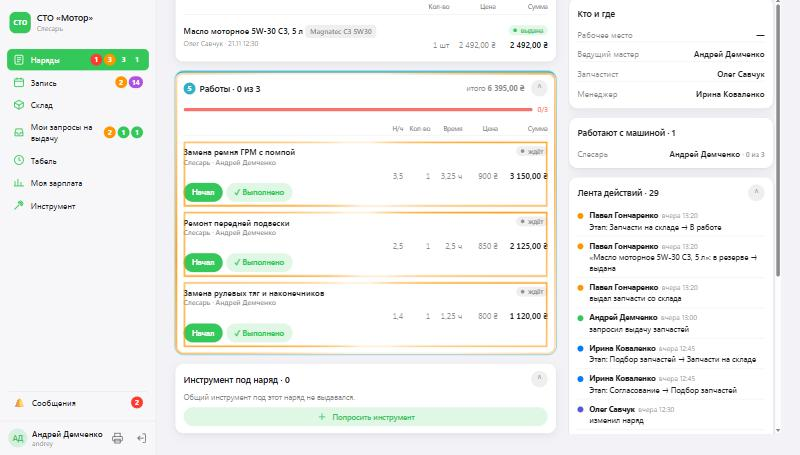
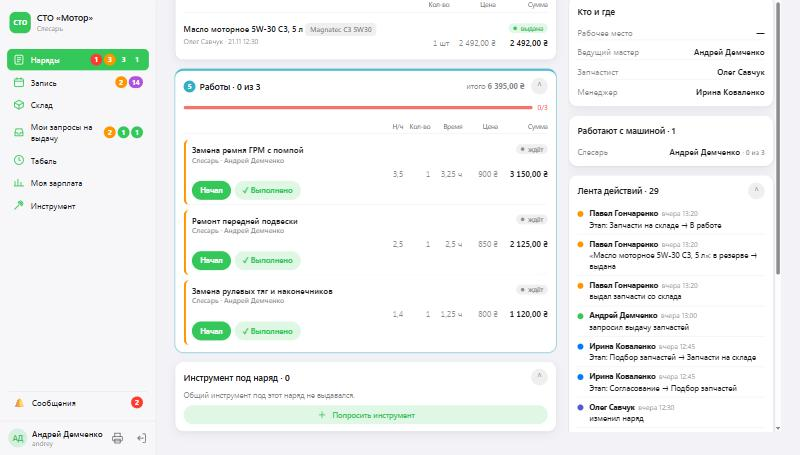
Кружки — одинаково везде: обводятся только окошки и строки (не разделы вокруг), плитка — только если больше нечего; у окошек с полоской слева и строк мигает край (мойка, срочная и пришедшая деталь, работы, склад); срочная деталь — скруглённая полоска как на мойке; «Назад» не обводится; проверка круж

diff --git a/app/static/js/app.js b/app/static/js/app.js
@@ -374,12 +374,13 @@
   const key = u => { const x = new URL(u, location.origin); return x.pathname + x.search; };
   function apply(map) {
     const want = new Map();   // элемент → цвет (самый срочный)
-    const put = (el, c) => { if (!el || el.closest('.sidebar, .tabbar, .more-menu, .toasts')) return;
+    const put = (el, c) => { if (!el || el.closest('.sidebar, .tabbar, .more-menu, .toasts, #nav-back, a.back')) return;
       const was = want.get(el); if (!was || ORDER.indexOf(c) < ORDER.indexOf(was)) want.set(el, c); };
     const main = document.querySelector('main') || document.body;
     const here = location.pathname, hereFull = here + location.search;
     Object.entries(map || {}).forEach(([menu, list]) => (list || []).forEach(x => {
       if (x.info) return;   // «для сведения» — без рамки
+      const local = [], add = el => { if (el) local.push(el); };
       const links = [x.href, ...(x.also || [])].filter(Boolean);
       links.forEach(h => {
         const u = new URL(h, location.origin);
@@ -388,31 +389,42 @@
           const href = a.getAttribute('href'); if (!href || href.startsWith('#')) return;
           const t = new URL(a.href); if (t.pathname !== u.pathname || a.closest('.wo-steps')) return;
           const tile = a.closest('.ptile, .tile'); if (!tile) return;   // только плитки (не кнопки периода и т. п.)
-          if ([...u.searchParams].every(([k, v]) => t.searchParams.get(k) === v)) put(tile, x.c);
+          if ([...u.searchParams].every(([k, v]) => t.searchParams.get(k) === v)) add(tile);
         });
-        if (u.pathname === here && u.hash) put(document.getElementById(u.hash.slice(1)), x.c);
-        // открыта как раз эта вкладка — обводим её плитку (у выбранной плитки ссылка «снять отбор», по адресу не найти)
-        const cur = new URLSearchParams(location.search);
-        if (u.pathname === here && [...u.searchParams].every(([k, v]) => cur.get(k) === v))
-          main.querySelectorAll('.ptile.on, .tile.on').forEach(el => put(el, x.c));
-        if (u.pathname === here) main.querySelectorAll('.rim.rim-' + x.c).forEach(el => put(el, x.c));
+        if (u.pathname === here && u.hash) add(document.getElementById(u.hash.slice(1)));
+        if (u.pathname === here) main.querySelectorAll('.rim.rim-' + x.c).forEach(el => add(el));
       });
       const onTarget = links.some(h => new URL(h, location.origin).pathname === here);
       (x.wo || []).forEach(id => {
         if (here === '/orders/' + id) {
-          if (x.blk) put(document.querySelector(x.blk), x.c);
-          (x.rows || []).forEach(s => main.querySelectorAll(s).forEach(el => put(el, x.c)));
+          if (x.blk) add(document.querySelector(x.blk));
+          (x.rows || []).forEach(s => main.querySelectorAll(s).forEach(el => add(el)));
         } else if ((here === '/orders' && menu === '/orders') || onTarget) {
           main.querySelectorAll(`a[href="/orders/${id}"], a[href^="/orders/${id}#"], a[href^="/orders/${id}?"]`)
-            .forEach(a => put(a.matches('.ocard') ? a : (a.closest(BOX) || a), x.c));
+            .forEach(a => add(a.matches('.ocard') ? a : (a.closest(BOX) || a)));
         }
       });
-      (x.sel || []).forEach(([p, s]) => { if (p === here || p === hereFull) main.querySelectorAll(s).forEach(el => put(el, x.c)); });
+      (x.sel || []).forEach(([p, s]) => { if (p === here || p === hereFull) main.querySelectorAll(s).forEach(el => add(el)); });
+      // 22.11.2026 (брат): есть сами окошки / строки дела — обводим их, плитку-фильтр нет (плитка — только если больше нечего)
+      const items = local.filter(el => !el.matches('.ptile, .tile'));
+      (items.length ? items : local).forEach(el => put(el, x.c));
     }));
-    document.querySelectorAll('.need').forEach(el => { if (!want.has(el)) el.classList.remove('need', 'need-rel', ...ORDER.map(c => 'need-' + c)); });
+    // 22.11.2026 (брат): обводим только сами окошки и строки — блок / раздел вокруг них (якорь #…, блок наряда) не
+    // обводим, если внутри уже есть обведённое
+    const els = [...want.keys()];
+    els.forEach(el => { if (els.some(o => o !== el && el.contains(o))) want.delete(el); });
+    const EDGE = '.part, .work, .wq-card, .lo-card, .rc-group, tr';   // + «Склад»: приход, лишнее, «Всегда в наличии»   // строки и окошки с полоской сбоку — мигает только край
+    const CLS = ['need', 'need-rel', 'need-edge', 'need-edge-add', ...ORDER.map(c => 'need-' + c)];
+    document.querySelectorAll('.need').forEach(el => { if (!want.has(el)) el.classList.remove(...CLS); });
     want.forEach((c, el) => {
       ORDER.forEach(o => el.classList.toggle('need-' + o, o === c));
       el.classList.add('need');
+      // окошко со своей цветной полоской слева (мойка, срочная деталь) или строка — мигает край, без рамки вокруг
+      const bl = parseFloat(getComputedStyle(el).borderLeftWidth) || 0;
+      if (bl >= 3 || el.matches(EDGE)) {
+        el.classList.add('need-edge');
+        if (bl < 3 && !el.matches('tr')) el.classList.add('need-edge-add');
+      }
       if (getComputedStyle(el).position === 'static') el.classList.add('need-rel');
     });
   }

diff --git a/docs/reports/2026-11-22-kruzhki/index.html b/docs/reports/2026-11-22-kruzhki/index.html
@@ -33,6 +33,7 @@
       <li><b>Дело не в наряде</b> — открывается нужная страница: обведены плитка и строки (запросы на выдачу, зарплата по людям, «Всегда в наличии», запросы доступа, машины в очереди мойки…).</li>
       <li>Рамка <b>бежит по краю</b>, цвет — как у кружка (🔴 🟠 🟣 🟢), и горит, <b>пока дело не сделано</b>. Сделали — цифра гаснет, рамка уходит (обновление раз в 15 секунд).</li>
       <li>«Для сведения» (сиреневая обводка у кружка главного кладовщика) — без рамки: делает другой.</li>
+      <li><b>Одинаково везде (правка после проверки):</b> обводятся только сами окошки и строки — раздел или блок вокруг них не обводится. Плитка-фильтр обводится, только если на странице больше нечего обвести. У окошек с цветной полоской слева (мойка, срочная деталь, пришедшая деталь, работы мастера, склад) — <b>мигает только полоска</b>, без рамки.</li>
     </ul>
     <b>Что нашлось и исправлено по пути</b>
     <ul>
@@ -46,13 +47,15 @@
 
   <h2>Как это выглядит</h2>
   <div class="grid">
-    <figure><img src="01-menedzher-soglasovanie-spisok.jpg" alt=""><figcaption>Менеджер · 🟠4 «согласовать с клиентом»: плитка «Согласование» и каждый из 4 нарядов.</figcaption></figure>
+    <figure><img src="01-menedzher-soglasovanie-spisok.jpg" alt=""><figcaption>Менеджер · 🟠4 «согласовать с клиентом»: каждый из 4 нарядов (зелёные плитки — дела, которых нет на этой вкладке).</figcaption></figure>
     <figure><img src="02-menedzher-naryad-problemy.jpg" alt=""><figcaption>Внутри наряда — блок «Согласование» (и кнопка «Согласовал с клиентом»).</figcaption></figure>
-    <figure><img src="03-slesar-raboty.jpg" alt=""><figcaption>Слесарь · 🟠3 «ваши работы — можно делать»: сразу в наряд, блок «Работы» и каждая работа.</figcaption></figure>
-    <figure><img src="07-menedzher-srochno-naryad24.jpg" alt=""><figcaption>Менеджер · 🔴 «срочная деталь без срока» — наряд 24, «Запчасти».</figcaption></figure>
+    <figure><img src="03-slesar-raboty.jpg" alt=""><figcaption>Слесарь · 🟠3 «ваши работы — можно делать»: сразу в наряд, у каждой работы мигает край.</figcaption></figure>
+    <figure><img src="07-zapchastist-srochno-kray.jpg" alt=""><figcaption>Запчастист · 🔴 срочная деталь: мигает только красная полоска строки (скруглена, как на мойке).</figcaption></figure>
+    <figure><img src="08-zapchastist-prishli-kray.jpg" alt=""><figcaption>Запчастист · 🟢 «пришли запчасти»: зелёный край у пришедшей детали.</figcaption></figure>
+    <figure><img src="09-menedzher-ready-okoshki.jpg" alt=""><figcaption>Менеджер · «Запросы на выдачу»: обведены только окошки, разделы — нет.</figcaption></figure>
     <figure><img src="04-buhgalter-zarplata.jpg" alt=""><figcaption>Бухгалтер · 🟠3 «проверить»: ровно эти 3 человека; 🟢 «выдать» — ниже, зелёным.</figcaption></figure>
-    <figure><img src="05-kladovshik-vydacha.jpg" alt=""><figcaption>Кладовщик · 🔴 «просят выдать» и 🟠 «подготовлено»: плитки и карточки запросов.</figcaption></figure>
-    <figure><img src="06-moyshik-ochered.jpg" alt=""><figcaption>Мойщик · 🟠3 «ждут мойки — ваши»: обведены 3 машины, серые («мыть пока нельзя») — нет.</figcaption></figure>
+    <figure><img src="05-kladovshik-vydacha.jpg" alt=""><figcaption>Кладовщик · 🔴 «просят выдать» и 🟠 «подготовлено»: сами окошки запросов.</figcaption></figure>
+    <figure><img src="06-moyshik-ochered.jpg" alt=""><figcaption>Мойщик · 🟠3 «ждут мойки — ваши»: мигает полоска у 3 машин, серые («мыть пока нельзя») — нет.</figcaption></figure>
   </div>
 
   <h2>Все кружки всех сотрудников</h2>

diff --git a/app/static/css/layout.css b/app/static/css/layout.css
@@ -1087,7 +1087,7 @@ body.fit .item-grid.fill { grid-template-rows: minmax(0, 1fr); align-items: stre
   background: color-mix(in srgb, var(--red) 14%, transparent); color: color-mix(in srgb, var(--red) 80%, var(--text)); }
 .urg-btn { border: 1px solid var(--separator); background: transparent; color: var(--text-2); border-radius: 8px; padding: 3px 8px; font-size: 12px; cursor: pointer; white-space: nowrap; }
 .urg-btn[aria-pressed="true"] { background: var(--red); border-color: var(--red); color: #fff; }
-.part[data-urgent="1"] { box-shadow: inset 3px 0 0 var(--red); padding-left: 8px; }
+.part[data-urgent="1"] { border-left: 4px solid var(--red); border-radius: 10px; padding-left: 10px; }   /* 22.11.2026: полоска с загибом, как на мойке */
 .rc-hint { margin: 0; }
 .rc-done { display: flex; align-items: center; gap: 12px; flex-wrap: wrap; border-left: 4px solid var(--green); }
 .rc-done .grow { display: grid; gap: 2px; }
@@ -2802,3 +2802,15 @@ body.has-toast-pill .toasts { bottom: calc(134px + env(safe-area-inset-bottom));
 @keyframes need-run { to { --need-a: 360deg; } }
 @media (prefers-reduced-motion: reduce) { .need::after { animation: none; background: var(--need-c); } }
 @media print { .need::after { display: none; } }
+
+/* 22.11.2026 (брат): у окошек со своей цветной полоской слева и у строк — мигает только край, без рамки вокруг */
+.need-edge::after { content: none; }
+.need-edge { animation: need-blink 1.3s ease-in-out infinite; border-left-color: var(--need-c); }
+.need-edge-add { border-left: 4px solid var(--need-c); border-radius: 10px; padding-left: 10px; }
+tr.need-edge { animation: none; }
+tr.need-edge > td:first-child { box-shadow: inset 4px 0 0 var(--need-c); animation: need-blink-sh 1.3s ease-in-out infinite; }
+@keyframes need-blink { 0%, 100% { border-left-color: var(--need-c); }
+  50% { border-left-color: color-mix(in srgb, var(--need-c) 12%, transparent); } }
+@keyframes need-blink-sh { 0%, 100% { box-shadow: inset 4px 0 0 var(--need-c); }
+  50% { box-shadow: inset 4px 0 0 color-mix(in srgb, var(--need-c) 12%, transparent); } }
+@media (prefers-reduced-motion: reduce) { .need-edge, tr.need-edge > td:first-child { animation: none; } }

diff --git a/app/services/badges.py b/app/services/badges.py
@@ -197,8 +197,12 @@ def compute(ctx) -> dict:
         if ctx.can("orders.approve", "parts.pick") or (role in MASTERS and role not in ("washer", "detailer")):
             from .notify import arrived_waiting
             arrived = arrived_waiting(db, bid, me.id)
+            # 22.11.2026 (брат): в наряде мигает край у каждой пришедшей детали
+            arr_rows = db.scalars(select(WoPart.id).join(PurchaseLine, PurchaseLine.wo_part_id == WoPart.id).where(
+                WoPart.work_order_id.in_(list(arrived) or [None]), WoPart.status == "reserved",
+                or_(PurchaseLine.received.is_(True), PurchaseLine.received_qty > 0))).all() if arrived else []
             _add(out, "/orders", "green", sum(arrived.values()), "пришли запчасти — ждут выдачи", "/orders?tab=arrived",
-                 alone=True, wo=list(arrived), blk="#parts")
+                 alone=True, wo=list(arrived), blk="#parts", rows=[f'.part[data-id="{i}"]' for i in arr_rows])
         if role in ("washer", "detailer"):   # 19.11.2026: мойщику — по очереди мойки: моя машина сейчас / следующая моя
             from . import wash as wash_svc
             brd_ = wash_svc.board(db, bid)

diff --git a/scripts/check_badges.py b/scripts/check_badges.py
@@ -17,7 +17,9 @@ from urllib.parse import parse_qsl, urlsplit
 ROOT = Path(__file__).resolve().parent.parent
 src = Path(sys.argv[1]) if len(sys.argv) > 1 else ROOT / "data" / "try" / "crm.db"
 dst = ROOT / "data" / "try" / "check.db"
-shutil.copy(src, dst)
+import sqlite3   # безопасная копия, даже если базу сейчас пишет сервер
+with sqlite3.connect(src) as a, sqlite3.connect(dst) as b:
+    a.backup(b)
 os.environ["DATABASE_URL"] = f"sqlite:///{dst.as_posix()}"
 sys.path.insert(0, str(ROOT))
 

diff --git a/docs/reports/2026-11-22-kruzhki/tablica.md b/docs/reports/2026-11-22-kruzhki/tablica.md
@@ -45,7 +45,7 @@
 | deputy | /schedule 🟠12 | завтра записаны — напомнить | `/schedule/remind#call` | ✓ #call, карточки цвета |
 | irina | /orders 🟠4 | согласовать с клиентом | `/orders?tab=approve` | ✓ блок #problems, строк: 1, нарядов в списке: 4 из 4, плитка |
 | irina | /orders 🟢7 | готовы к выдаче клиенту | `/orders?tab=ready` | ✓ блок #money, нарядов в списке: 7 из 7, плитка |
-| irina | /orders 🟢3 | пришли запчасти — ждут выдачи | `/orders?tab=arrived` | ✓ блок #parts, нарядов в списке: 3 из 3, плитка |
+| irina | /orders 🟢3 | пришли запчасти — ждут выдачи | `/orders?tab=arrived` | ✓ блок #parts, строк: 1, нарядов в списке: 3 из 3, плитка |
 | irina | /ready 🟠2 | запчасти — ждут кладовщика | `/ready#waiting` | ✓ #waiting, карточки цвета |
 | irina | /ready 🟢1 | кладовщик подготовил | `/ready#mine` | ✓ #mine, карточки цвета |
 | irina | /ready 🟢1 | инструмент подготовлен — забрать у окошка и отнести мастеру | `/ready#tools` | ✓ #tools, карточки цвета |
@@ -53,7 +53,7 @@
 | irina | /schedule 🟠12 | завтра записаны — напомнить | `/schedule/remind#call` | ✓ #call, карточки цвета |
 | oleg | /orders 🔴1 | срочная деталь не пришла — поторопите поставщика | `/orders/8d445520-89f6-4878-a7e4-2d670113371e#parts` | ✓ блок #parts, строк: 1, #parts |
 | oleg | /orders 🟠1 | подобрать запчасти | `/orders/d686fe8f-4238-4f33-be31-67fc9fb6684d#parts` | ✓ блок #parts, строк: 1, #parts |
-| oleg | /orders 🟢3 | пришли запчасти — ждут выдачи | `/orders?tab=arrived` | ✓ блок #parts, нарядов в списке: 3 из 3, плитка |
+| oleg | /orders 🟢3 | пришли запчасти — ждут выдачи | `/orders?tab=arrived` | ✓ блок #parts, строк: 1, нарядов в списке: 3 из 3, плитка |
 | oleg | /wash 🟠2 | химия заканчивается — заказать | `/wash?tab=chem` | ✓ плитка |
 | oleg | /stock 🔴1 | клиент отказался — решите с заказом у поставщика | `/stock/leftovers` | ✓ строки |
 | oleg | /stock 🟠1 | лишнее после отказа на складе — оставить, вернуть или продать | `/stock/leftovers` | ✓ строки |
@@ -79,7 +79,7 @@
 | glav | /razbor 🔴1 | отказано в утверждении — посмотреть причину | `/razbor?v=parts&f=declined` | ✓ плитка (открыта) |
 | andrey | /orders 🔴1 | новые — посмотреть | `/orders/c5737bf5-7e4a-4771-b541-639385581af4#problems` | ✓ блок #problems, #problems |
 | andrey | /orders 🟠3 | ваши работы — можно делать | `/orders/c3984e23-b2c0-4eaa-80ca-5233281e78b8#works` | ✓ блок #works, строк: 3, #works |
-| andrey | /orders 🟢3 | пришли запчасти — ждут выдачи | `/orders?tab=arrived` | ✓ блок #parts, нарядов в списке: 3 из 3, плитка |
+| andrey | /orders 🟢3 | пришли запчасти — ждут выдачи | `/orders?tab=arrived` | ✓ блок #parts, строк: 1, нарядов в списке: 3 из 3, плитка |
 | andrey | /orders 🟢1 | запчасти на складе — можно начинать | `/orders/27d198cd-137d-4481-b7aa-2e8fcaa6f85d#parts` | ✓ блок #parts, #parts |
 | andrey | /my-requests 🟠2 | ждут кладовщика или менеджера | `/my-requests?tab=parts` | ✓ карточки цвета |
 | andrey | /my-requests 🟢1 | готово — забрать у окошка кладовщика | `/my-requests?tab=parts` | ✓ карточки цвета |
@@ -88,14 +88,14 @@
 | andrey | /schedule 🟣14 | к вам записали — отметьте «Видел» | `/schedule#zp-sig` | ✓ #zp-sig |
 | elektro | /orders 🔴2 | новые — посмотреть | `/orders?tab=intake` | ✓ блок #problems, нарядов в списке: 2 из 2, плитка |
 | elektro | /orders 🟠4 | ваши работы — можно делать | `/orders?tab=active` | ✓ блок #works, строк: 1, нарядов в списке: 4 из 4, плитка |
-| elektro | /orders 🟢2 | пришли запчасти — ждут выдачи | `/orders?tab=arrived` | ✓ блок #parts, нарядов в списке: 2 из 2, плитка |
+| elektro | /orders 🟢2 | пришли запчасти — ждут выдачи | `/orders?tab=arrived` | ✓ блок #parts, строк: 1, нарядов в списке: 2 из 2, плитка |
 | elektro | /my-requests 🟠1 | ждут кладовщика или менеджера | `/my-requests?tab=parts` | ✓ карточки цвета |
 | elektro | /my-requests 🟢1 | готово — забрать у окошка кладовщика | `/my-requests?tab=parts` | ✓ карточки цвета |
 | elektro | /schedule 🟠1 | сегодня ждём клиентов | `/schedule#zp-sig` | ✓ #zp-sig |
 | elektro | /schedule 🟣10 | к вам записали — отметьте «Видел» | `/schedule#zp-sig` | ✓ #zp-sig |
 | motor | /orders 🔴1 | новые — посмотреть | `/orders/3736b22c-264c-4193-bd6e-5000ed99f653#problems` | ✓ блок #problems, #problems |
 | motor | /orders 🔴1 | вам передали наряд — нажмите «Принял» | `/orders/8d445520-89f6-4878-a7e4-2d670113371e#ho-accept` | ✓ блок #ho-accept, #ho-accept |
-| motor | /orders 🟢1 | пришли запчасти — ждут выдачи | `/orders/5be6bb84-8b65-416d-82b3-b90e30739538#parts` | ✓ блок #parts, #parts |
+| motor | /orders 🟢1 | пришли запчасти — ждут выдачи | `/orders/5be6bb84-8b65-416d-82b3-b90e30739538#parts` | ✓ блок #parts, строк: 1, #parts |
 | motor | /my-requests 🟠1 | ждут кладовщика или менеджера | `/my-requests?tab=parts` | ✓ карточки цвета |
 | motor | /my-requests 🟢1 | инструмент выдан — подтвердите «Получил» | `/my-requests?tab=tools` | ✓ карточки цвета |
 | motor | /schedule 🟣9 | к вам записали — отметьте «Видел» | `/schedule#zp-sig` | ✓ #zp-sig |

diff --git a/CLAUDE.md b/CLAUDE.md
@@ -620,6 +620,11 @@
   «Всегда в наличии», зарплата (`data-pst`), «Лишнее после отказов», «Приход», доступы — обводятся строки.
   Ошибка прошлой правки: у кладовщика `/api/notify` падал (локальный import `PurchaseLine` в `compute`) — убран.
   Проверка всех кружков всех сотрудников: `scripts/check_badges.py` (на копии базы, таблица в Markdown).
+  Позже 22.11 (брат, одинаково везде): обводятся только сами окошки и строки — раздел / блок вокруг (якорь, блок
+  наряда) не обводится, если внутри есть обведённое; плитка-фильтр — только если больше нечего обвести; окошки с
+  цветной полоской слева и строки (`.part, .work, .wq-card, .lo-card, .rc-group, tr`) — мигает край (`.need-edge`,
+  без полоски — добавляется `.need-edge-add`); «‹ Назад» не обводится. Срочная деталь — полоска 4 px со скруглением,
+  как на мойке. «Пришли запчасти» — мигает край у каждой пришедшей детали.
 - Принтера наклеек и сканера пока нет: размер и режим — «Настройки → Наклейки и принтер», принтер — в окне печати.
 - **Шаг 8** (сервер Ubuntu/Docker, HTTPS, Alembic, PWA-иконка, бэкапы, ИБП) **не начинать без явного «го»** —
   сначала проверка готового и общий список правок.
